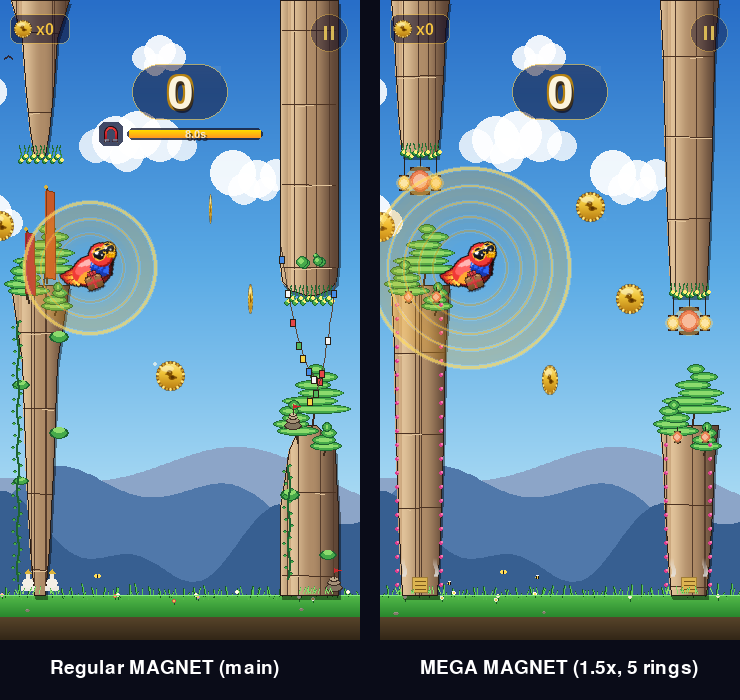
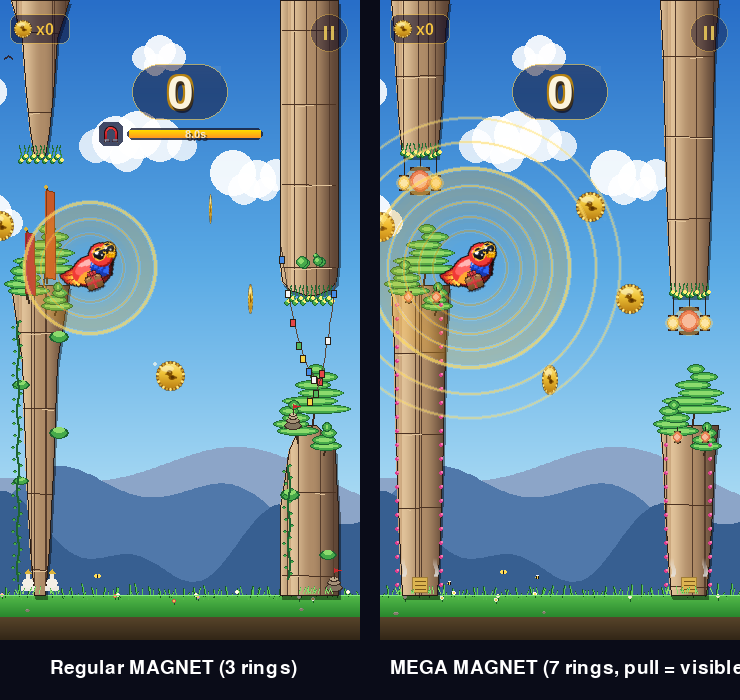
MEGA MAGNET: 7 rings (added 2 outer halos) + pull radius matches visible field
Two asks:
  1. Add 2 more rings to the MEGA force field — extend its reach.
  2. Verify only coins TOUCHING the visible field get pulled — the
     old vacuum behaviour (pull radius 5x = entire canvas) was
     supposed to be deprecated when vacuum was removed but the
     MEGA_MAGNET_RADIUS_MULT was left at 5.0.

Changes:

* game/scenes.py MEGA block:
    * 5 rings -> 7 rings — added rfac 1.30 (-0.6 phase) and 1.15
      (-0.3 phase) on top of the existing 5 at rfac 1.00 / 0.85 /
      0.70 / 0.55 / 0.40. Phases continue the staggered pulse
      pattern so all 7 rings breathe coherently.
    * Sub-surface re-sized to fit the outermost ring at rfac=1.30
      (was clipping with the original rad*2+8 box).

* game/config.py:
    * MEGA_MAGNET_RADIUS_MULT 5.0 -> 1.95.
      Outer ring sits at rad * 1.30 with rad = MAGNET_RADIUS * 1.5,
      so the pull radius (MAGNET_RADIUS * 1.95) lands exactly on
      the outermost visible ring. No more pulling coins from off-
      screen or far outside the gold halo.

* tests/test_secret_powerups.py:
    * Renamed and updated the existing pull test to check a coin
      INSIDE the new visible field (at 1.5 x MAGNET_RADIUS) is
      tugged.
    * Added test_mega_magnet_does_not_pull_coins_outside_visible_field
      that asserts a coin at 2.5 x MAGNET_RADIUS (well past the
      outermost ring) is NOT moved.

33/33 tests pass.

diff --git a/tests/test_secret_powerups.py b/tests/test_secret_powerups.py
@@ -250,29 +250,50 @@ def test_treasure_box_arms_buff_and_drops_coins_per_flap():
     assert w.score == no_buff_pre  # no drop once the buff has expired
 
 
-def test_mega_magnet_sets_timer_and_pulls_far_coins():
-    from game.config import MEGA_MAGNET_DURATION, MAGNET_RADIUS
+def test_mega_magnet_sets_timer_and_pulls_coins_in_visible_field():
+    from game.config import (
+        MEGA_MAGNET_DURATION, MEGA_MAGNET_RADIUS_MULT, MAGNET_RADIUS,
+    )
     w = World()
     w.ready_t = 0
     assert w.mega_magnet_timer == 0
     w._activate_mega_magnet(PowerUp(0, 0, kind="mega_magnet"))
     assert w.mega_magnet_timer == MEGA_MAGNET_DURATION
 
-    # Place a coin well OUTSIDE the regular MAGNET_RADIUS so we know
-    # any movement toward Pip is courtesy of the mega-radius multiplier.
     bx, by = w.bird.x, w.bird.y
-    far_dist = MAGNET_RADIUS * 2  # safely outside the regular pull
+    # A coin INSIDE the mega visible field but OUTSIDE the regular
+    # field (1.5 × MAGNET_RADIUS sits between them) should be tugged.
+    in_dist = MAGNET_RADIUS * 1.5
+    c = Coin(bx + in_dist, by)
+    w.coins = [c]
+    start_x = c.x
+    for _ in range(5):
+        w._apply_magnet(1 / 60, radius_mult=MEGA_MAGNET_RADIUS_MULT)
+    assert c.x < start_x, (
+        f"mega-magnet didn't tug a coin at 1.5x MAGNET_RADIUS: "
+        f"x stayed at {c.x:.1f} (started {start_x:.1f})")
+
+
+def test_mega_magnet_does_not_pull_coins_outside_visible_field():
+    """The visible mega field reaches MAGNET_RADIUS * 1.95 (outermost
+    ring). A coin past that (e.g., at 2.5 × MAGNET_RADIUS) must NOT
+    be tugged — the old vacuum 5× behaviour is gone."""
+    from game.config import MEGA_MAGNET_RADIUS_MULT, MAGNET_RADIUS
+    w = World()
+    w.ready_t = 0
+    w._activate_mega_magnet(PowerUp(0, 0, kind="mega_magnet"))
+
+    bx, by = w.bird.x, w.bird.y
+    far_dist = MAGNET_RADIUS * 2.5  # safely past the 1.95 outer ring
     c = Coin(bx + far_dist, by)
     w.coins = [c]
     start_x = c.x
-    # Tick a few frames of the magnet routine (skip the rest of update
-    # to avoid scroll culling the coin off-screen).
     for _ in range(5):
-        w._apply_magnet(1 / 60, radius_mult=5.0)
-    # The coin should have moved toward Pip (smaller x).
-    assert c.x < start_x, (
-        f"mega-magnet didn't tug a far coin: x stayed at {c.x:.1f} "
-        f"(started {start_x:.1f})")
+        w._apply_magnet(1 / 60, radius_mult=MEGA_MAGNET_RADIUS_MULT)
+    assert c.x == start_x, (
+        f"mega-magnet pulled a coin OUTSIDE the visible field "
+        f"(at {far_dist:.0f} px from Pip): x moved to {c.x:.1f} "
+        f"from {start_x:.1f}")
 
 
 

diff --git a/game/scenes.py b/game/scenes.py
@@ -1197,11 +1197,17 @@ class App:
                               int(self.world.bird.y) + sy - lcy))
 
         # MEGA MAGNET = the same code path as the regular magnet above,
-        # word for word, with two differences only:
-        #   * rad = MAGNET_RADIUS * 1.5 (bigger reach)
-        #   * 5 rings instead of 3, spread evenly across the bigger
-        #     area so the per-pixel ring density stays the same as
-        #     the regular magnet's 3 rings inside MAGNET_RADIUS
+        # word for word, with three differences only:
+        #   * rad = MAGNET_RADIUS * 1.5 (bigger glow / mid-ring anchor)
+        #   * 7 rings instead of 3 — the regular's outer-3 PLUS 2
+        #     extra outer halos (rfac 1.15 and 1.30) extending past
+        #     the glow PLUS 2 inner steps (rfac 0.85 and 0.55) for
+        #     denser inward coverage
+        #   * sub-surface sized to outermost ring (rfac=1.30) so the
+        #     two outer halos fit without clipping
+        # The outermost visible ring sits at rad * 1.30 = MAGNET_RADIUS
+        # * 1.95 — MEGA_MAGNET_RADIUS_MULT matches this so only coins
+        # actually touching the visible field get pulled.
         # Every other constant — glow palette, glow alpha curve,
         # BREATH amount, per-ring satellite passes, blit-once — is
         # identical to the regular field.
@@ -1210,9 +1216,11 @@ class App:
             import math as _math
             t_pulse = self._cloud_phase * 5.5
             rad = int(MAGNET_RADIUS * 1.5)
-            field = pygame.Surface((rad * 2 + 8, rad * 2 + 8),
+            # Surface needs to hold the OUTERMOST ring at rfac=1.30.
+            outer_r = int(rad * 1.30) + 4
+            field = pygame.Surface((outer_r * 2, outer_r * 2),
                                    pygame.SRCALPHA)
-            lcx, lcy = rad + 4, rad + 4
+            lcx, lcy = outer_r, outer_r
 
             BREATH = 0.30
             s_outer = _math.sin(t_pulse + 0.0)
@@ -1232,6 +1240,8 @@ class App:
 
             AA_COL = (255, 240, 180)
             for rfac, phase, alpha, width, breath_scale, ring_col in (
+                    (1.30, -0.6, 130, 2, 0.62, (255, 225, 115)),
+                    (1.15, -0.3, 150, 2, 0.78, (255, 220, 105)),
                     (1.00, 0.0,  180, 3, 1.00, (255, 220, 100)),
                     (0.85, 0.3,  165, 2, 0.92, (255, 210,  85)),
                     (0.70, 0.6,  150, 2, 0.85, (250, 195,  65)),

diff --git a/game/config.py b/game/config.py
@@ -190,7 +190,12 @@ TREASURE_BOX_COINS_PER_FLAP = 2
 # screen for the same duration. Implemented by reusing _apply_magnet
 # with a much larger radius multiplier.
 MEGA_MAGNET_DURATION    = 8.0
-MEGA_MAGNET_RADIUS_MULT = 5.0     # 82 px * 5 = 410 px → entire 360-wide canvas
+# Pull radius matches the OUTERMOST visible ring of the mega force
+# field (rad * 1.30 with rad = MAGNET_RADIUS * 1.5 → 1.95 ×
+# MAGNET_RADIUS). Only coins actually touching the visible field
+# get pulled — supersedes the old "vacuum" 5.0× behaviour that
+# sucked in every coin on screen regardless of position.
+MEGA_MAGNET_RADIUS_MULT = 1.95
 
 # Lottery tiers: (label, weight, coin_delta). NOTHING is the modal
 # outcome (35 %); roughly 37 % of spins win, 28 % lose, 35 % zero. With
